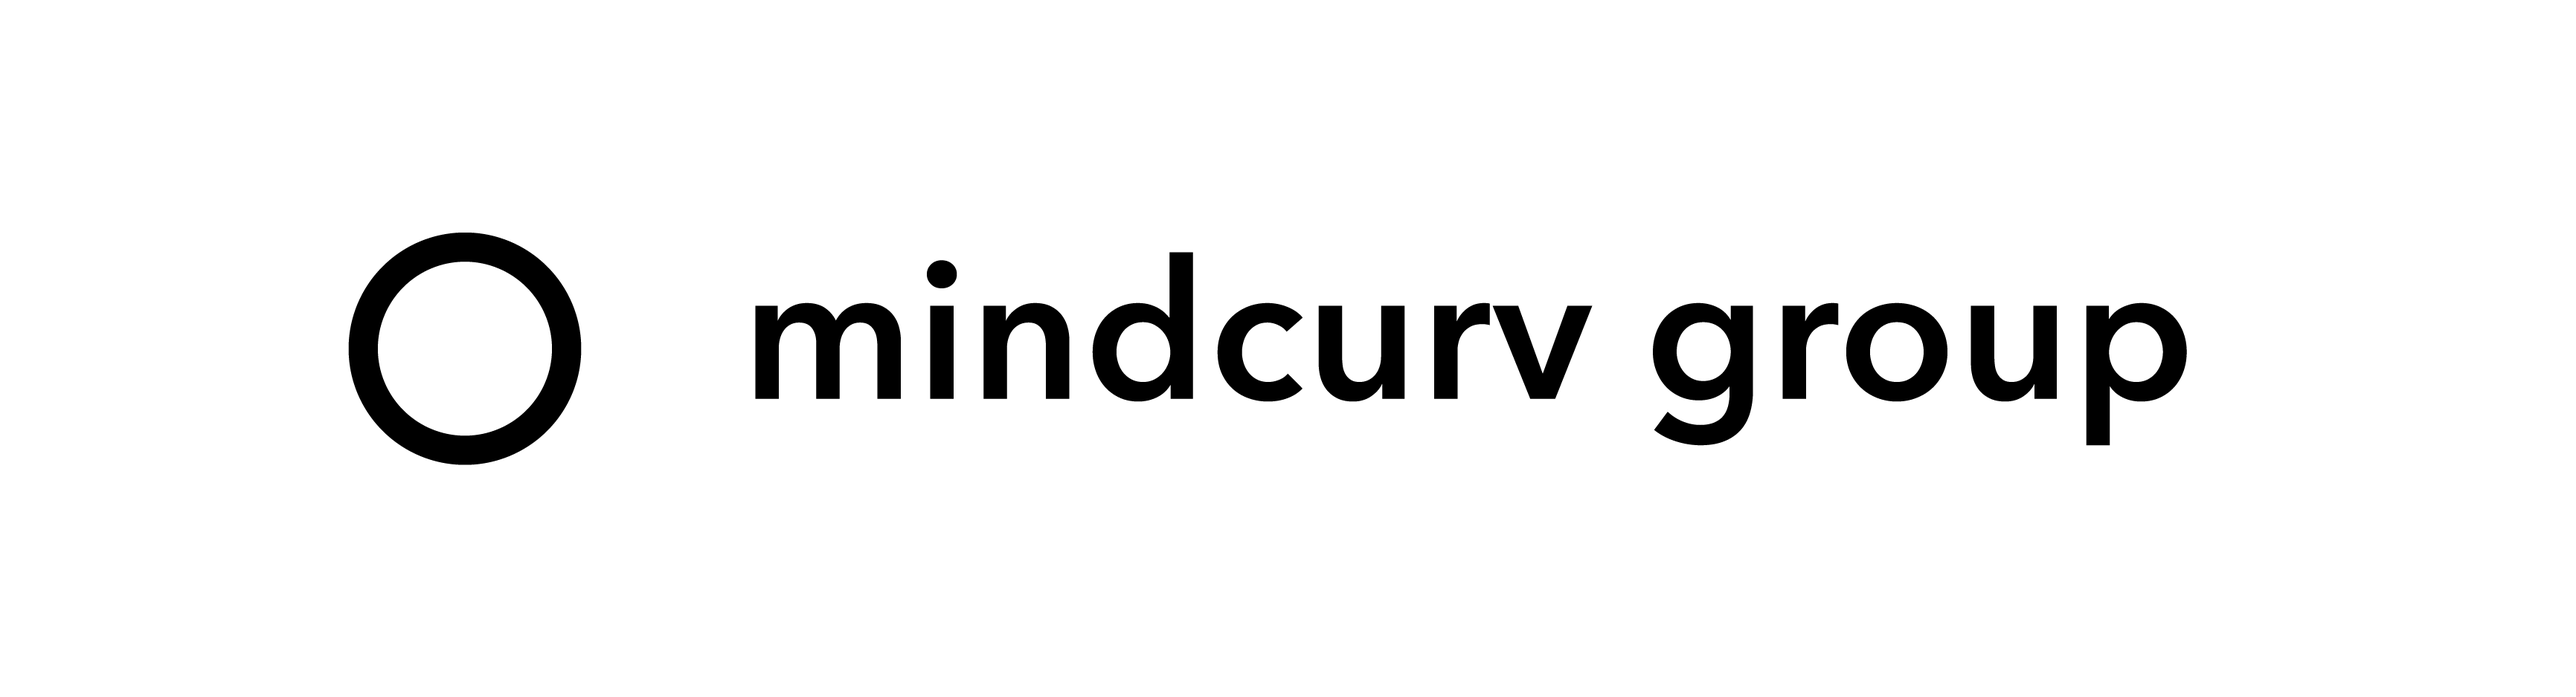
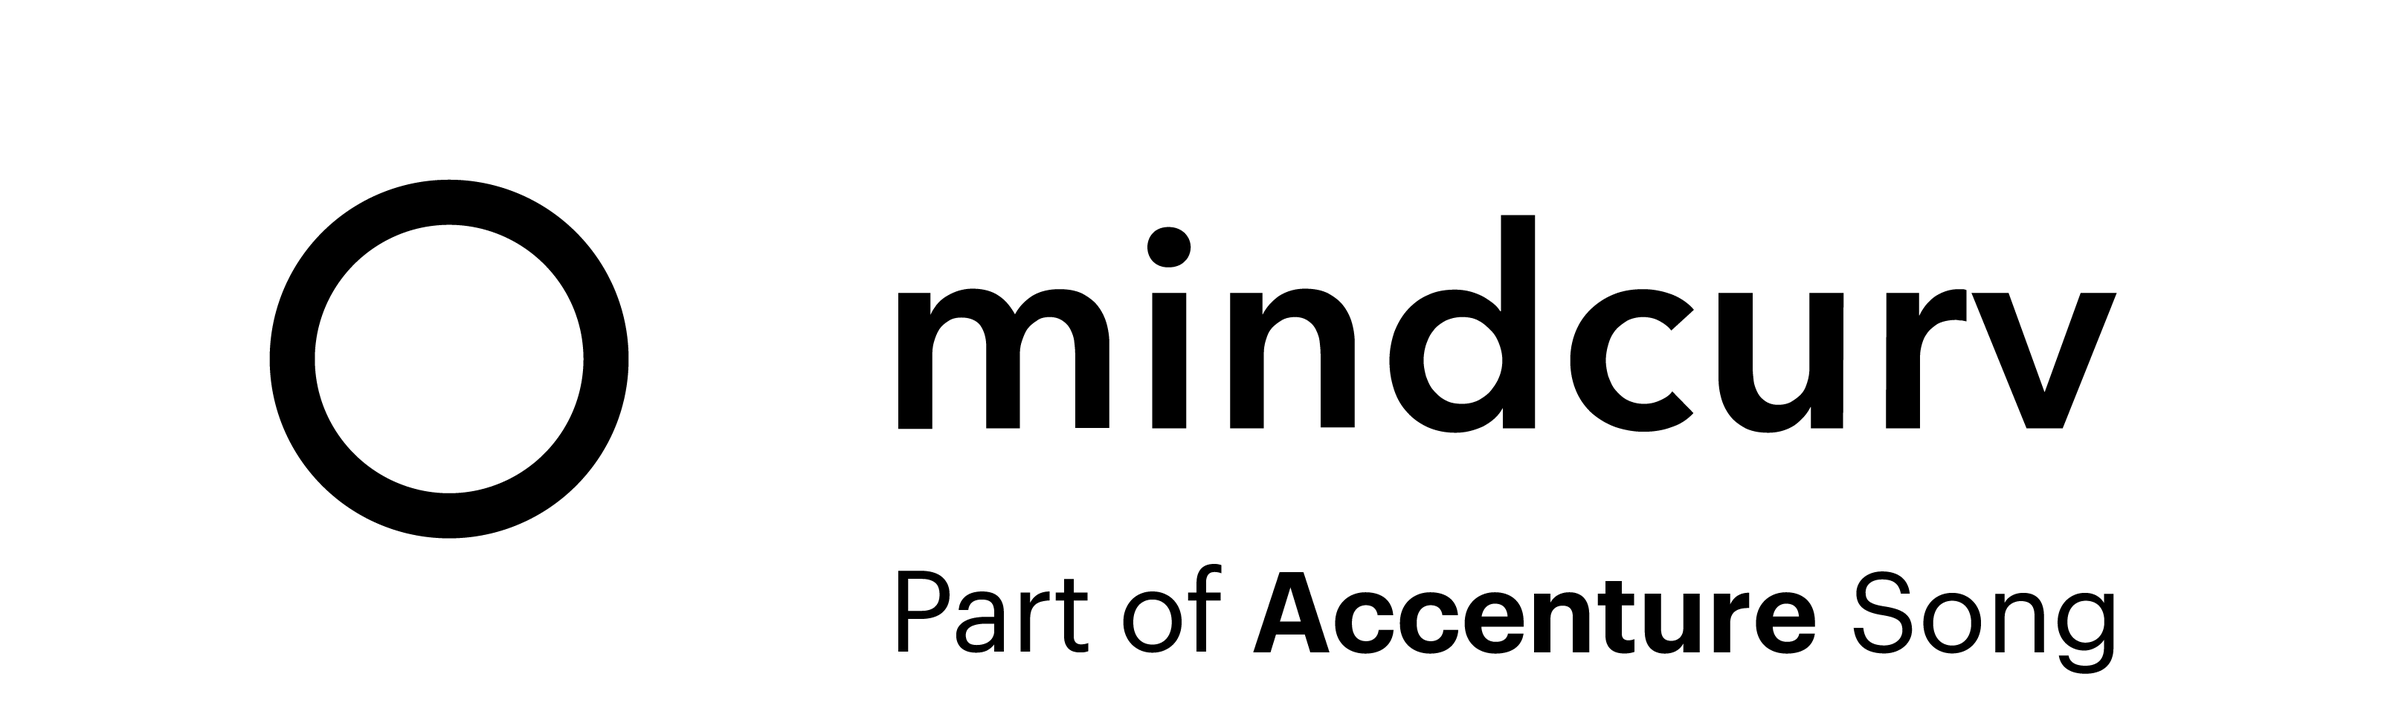
mindcurv sponsor

Changed region(s): [[0.0935, 0.2473, 0.9034, 0.7729], [0.3738, 0.7729, 0.9034, 0.9584], [0.4673, 0.3092, 0.4984, 0.371]]

diff --git a/public/index.html b/public/index.html
@@ -1333,6 +1333,13 @@
           <div class="col-lg-3 col-md-4 col-xs-6">
             <div class="supporter-logo-3">
               <a href="#" target="_blank">
+                <img src="assets/img/supporters/mindcurv.png" style="padding: 15%;" class="img-fluid" alt="sponsor">
+              </a>
+            </div>
+          </div>          
+          <div class="col-lg-3 col-md-4 col-xs-6">
+            <div class="supporter-logo-3">
+              <a href="#" target="_blank">
                 <img src="assets/img/supporters/1.png" style="padding: 15%;" class="img-fluid" alt="sponsor">
               </a>
             </div>
